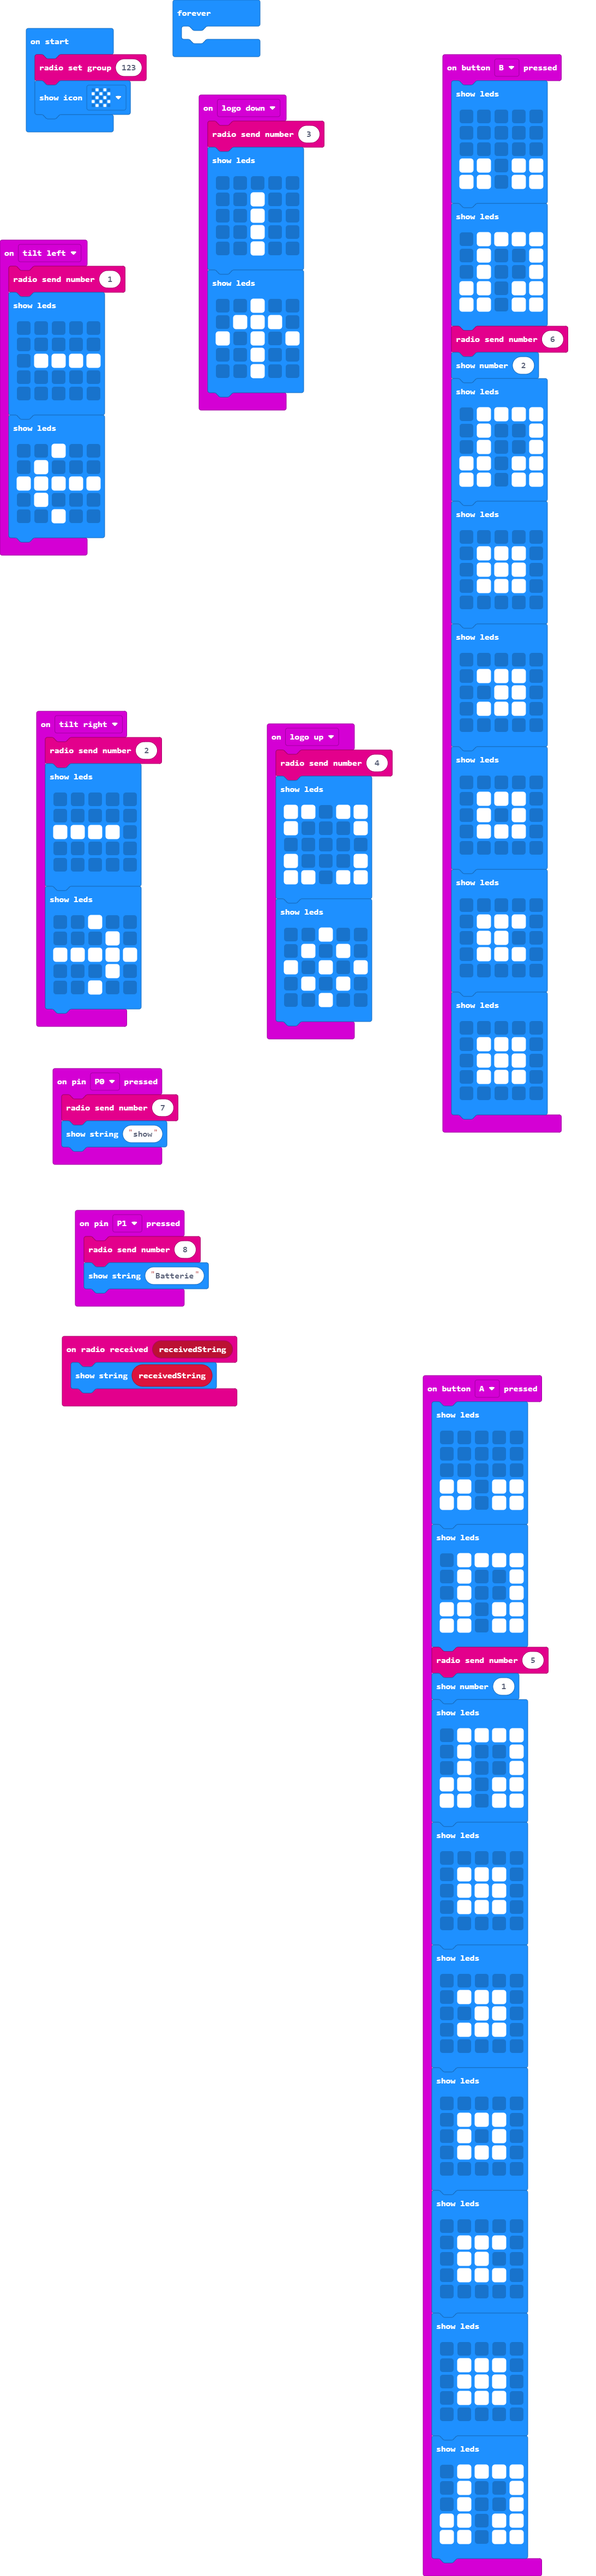
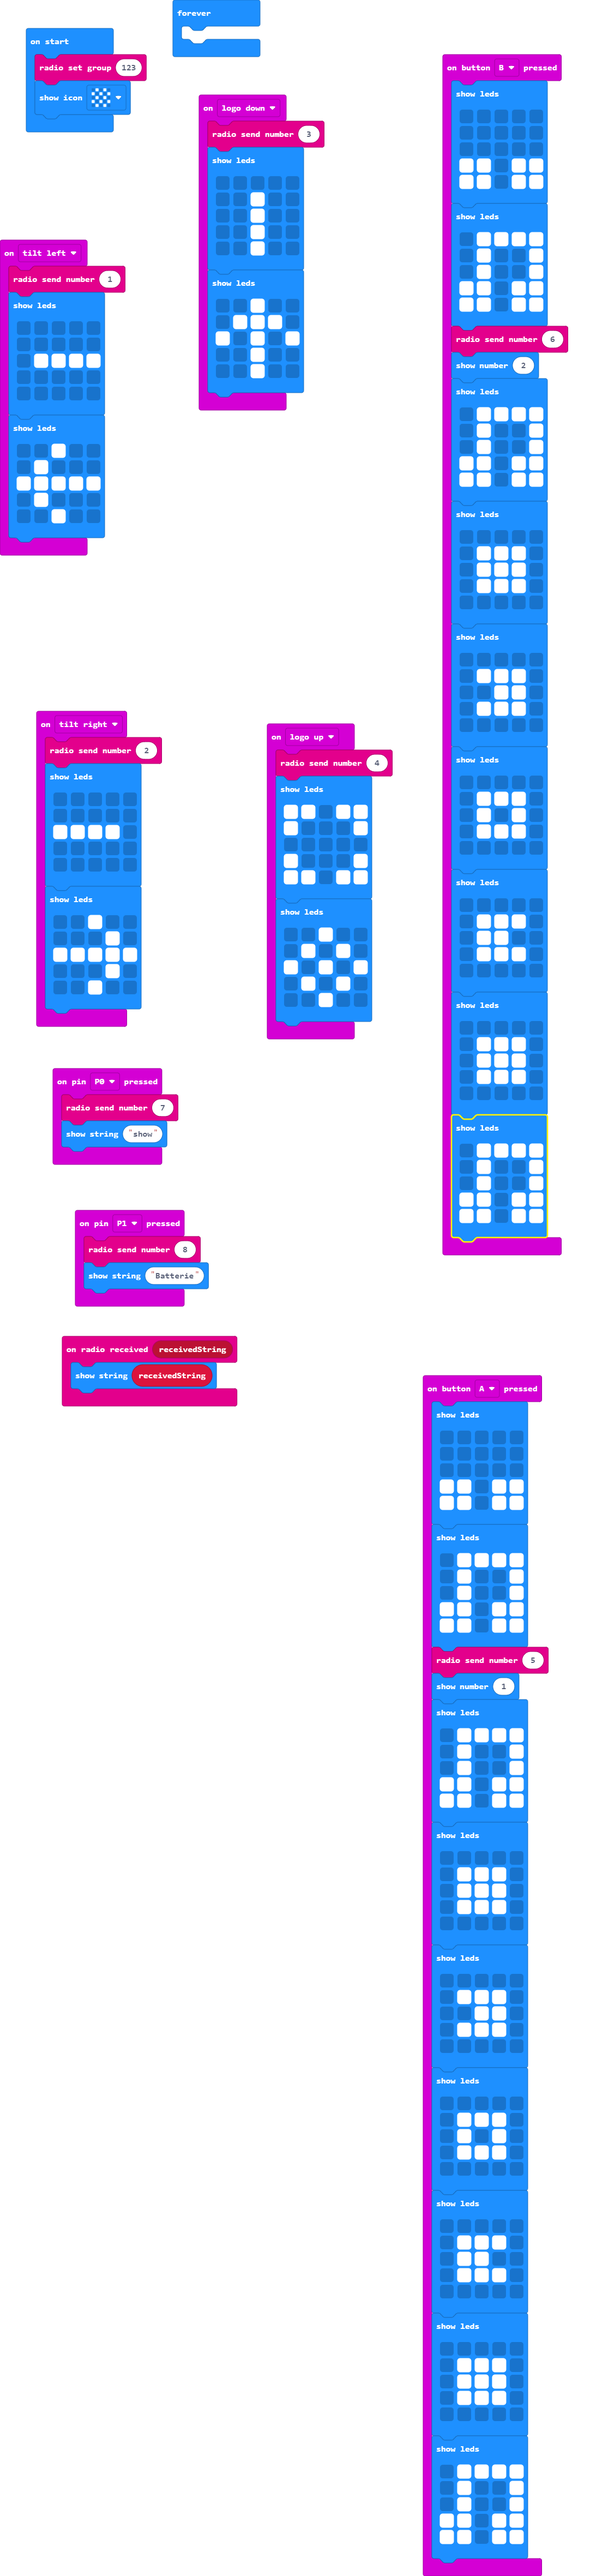
animation

Changed region(s): [[0.7155, 0.4046, 0.9332, 0.498]]

diff --git a/main.ts b/main.ts
@@ -165,6 +165,13 @@ input.onButtonPressed(Button.B, function () {
         . # # # .
         . . . . .
         `)
+    basic.showLeds(`
+        . # # # #
+        . # . . #
+        . # . . #
+        # # . # #
+        # # . # #
+        `)
 })
 input.onPinPressed(TouchPin.P1, function () {
     radio.sendNumber(8)
